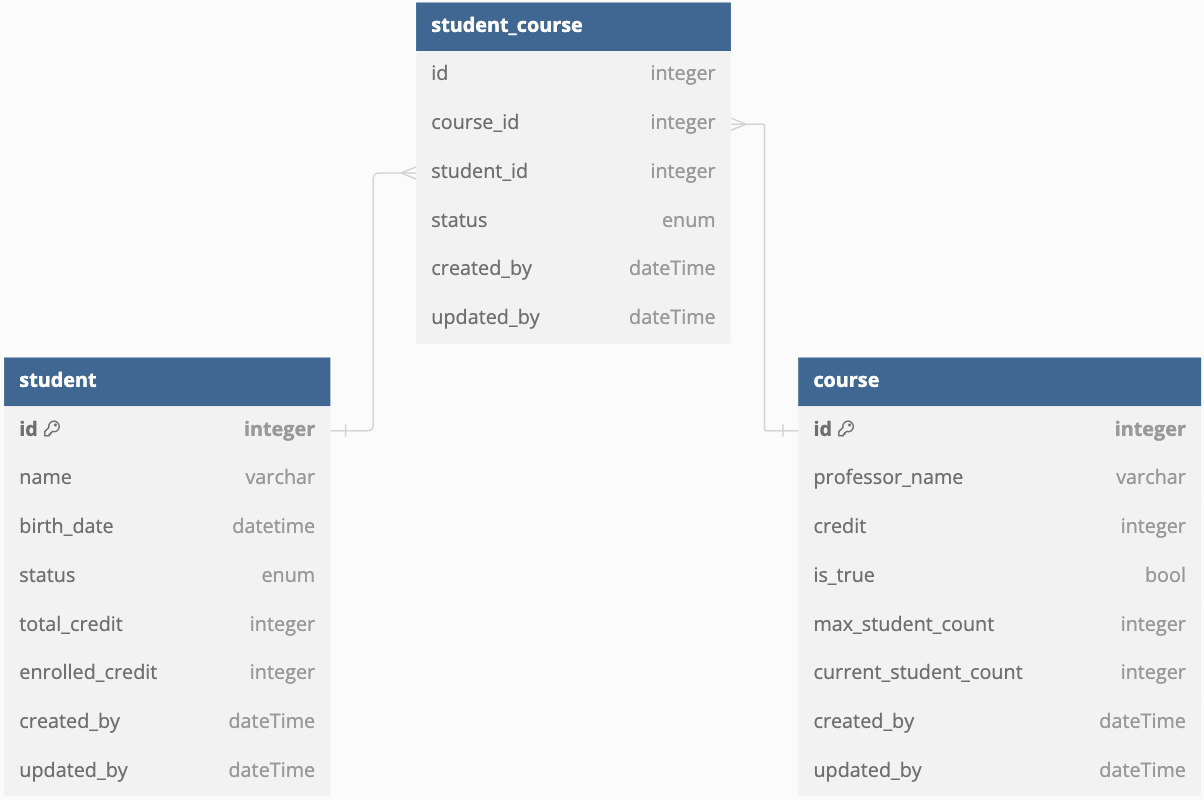
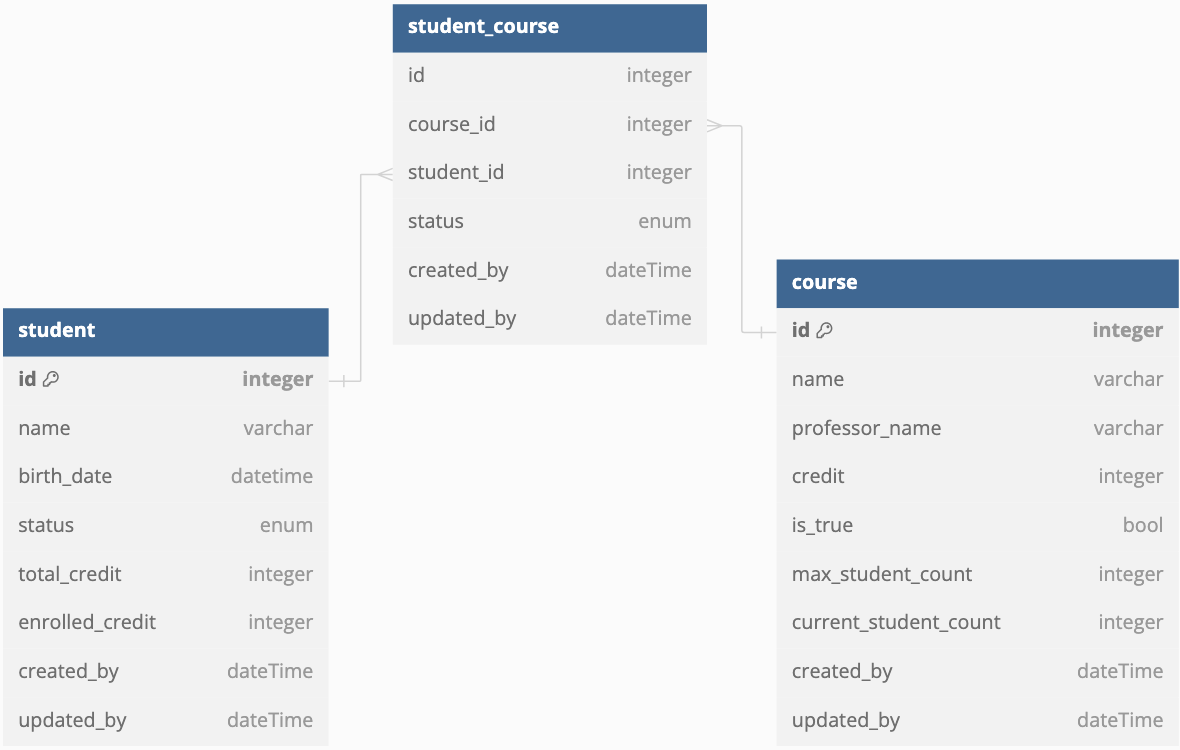
add 4~5일차.md

diff --git a/jeongwpa/4~5일차.md b/jeongwpa/4~5일차.md
@@ -1,0 +1,340 @@
+## 4~5일차
+
+- [4~5일차](#45일차)
+  - [TODO](#todo)
+  - [테스트 코드](#테스트-코드)
+    - [테스트 코드를 작성하는 이유](#테스트-코드를-작성하는-이유)
+    - [테스트 코드의 종류](#테스트-코드의-종류)
+    - [좋은 테스트 코드를 작성하는 방법](#좋은-테스트-코드를-작성하는-방법)
+  - [JUnit5](#junit5)
+  - [개발방법론](#개발방법론)
+    - [TDD(Test Driven Development)](#tddtest-driven-development)
+    - [BDD(Behavior Driven Development)](#bddbehavior-driven-development)
+    - [DDD(Domain Driven Development)](#ddddomain-driven-development)
+    - [ATDD(Acceptance Test Driven Development)](#atddacceptance-test-driven-development)
+  - [API 명세서](#api-명세서)
+
+### TODO
+
+- [x] Junit5
+- [ ] 개발방법론(TDD, BDD, DDD, ATDD)
+- [ ] 코드 컨벤션 숙지하기 [[참고]](https://www.notion.so/c0425406535c47df89714df16b585f19?pvs=4)
+- [ ] API 명세서 작성
+- [ ] API 명세서는 사진(`.jpg` 혹은 `.png`)으로 제출
+
+### 테스트 코드
+
+> [Inflab Tech - 테스트 코드를 왜 그리고 어떻게 작성해야 할까?](https://tech.inflab.com/20230404-test-code/)  
+> [Kakao Tech - 테스트 코드 한 줄을 작성하기까지의 고난](https://tech.kakao.com/posts/479)
+
+테스트 코드는 소프트웨어의 품질을 높이기 위해 작성하는 코드입니다.
+
+#### 테스트 코드를 작성하는 이유
+
+테스트 코드를 작성하는 이유는 코드의 안정성을 높이기 위한 것이 가장 큰 이유이며,
+리렉터링 시에도 코드의 안정성을 보장하기 위해 사용됩니다.
+또한 디버깅을 쉽게 하거나 문서화를 위한 목적으로도 사용됩니다.
+
+#### 테스트 코드의 종류
+
+![test-pyramid.jpg](images%2Ftest-pyramid.jpg)
+
+* 단위 테스트: 도메인 모델과 비즈니스 로직을 테스트, 작은 단위의 코드 및 알고리즘 테스트
+* 통합 테스트: 코드의 주요 흐름들을 통합적으로 테스트하며 주요 외부 의존성(ex. 데이터베이스)에 대해서 테스트
+* E2E 테스트: 최종 사용자의 흐름에 대한 테스트이며 외부로부터의 요청부터 응답까지 기능이 잘 동작하는지에 대한 테스트
+
+#### 좋은 테스트 코드를 작성하는 방법
+
+* 테스트 코드는 DRY 보다는 DAMP 하게 작성한다.
+* 테스트는 구현이 아닌 결과를 검증한다.
+* 읽기 좋은 테스트를 작성한다.
+* 테스트 명세에 비즈니스 행위를 담는다.
+
+> 자세한 내용은 [Inflab Tech - 테스트 코드를 왜 그리고 어떻게 작성해야 할까?](https://tech.inflab.com/20230404-test-code/)를 참고하세요.
+
+### JUnit5
+
+> [Junit5 - User Guide](https://junit.org/junit5/docs/current/user-guide/)  
+> [Junit5 - org.junit.jupiter.api](https://junit.org/junit5/docs/5.10.2/api/org.junit.jupiter.api/org/junit/jupiter/api/package-summary.html)  
+> [SW Test Academy - JUnit 5 Architecture](https://www.swtestacademy.com/junit-5-architecture/)
+
+JUnit은 Java에서 테스트를 위한 프레임워크입니다.
+
+![junit5_architecture.png](images%2Fjunit5_architecture.png)
+
+JUnit5는 `JUnit Platform`, `JUnit Jupiter`, `JUnit Vintage` 세 가지 모듈로 구성되어 있습니다.
+
+* `JUnit Platform` : JUnit5를 실행하는 런처와 테스트 엔진을 제공
+* `JUnit Jupiter` : 테스트 작성을 위한 새로운 프로그래밍 모델과 확장 모델을 제공
+* `JUnit Vintage` : JUnit3, JUnit4를 실행할 수 있도록 호화성 지원
+
+```groovy
+dependencies {
+    testImplementation 'org.junit.jupiter:junit-jupiter-api:5.10.2'
+    testRuntimeOnly 'org.junit.jupiter:junit-jupiter-engine:5.10.2'
+    testRuntimeOnly 'org.junit.vintage:junit-vintage-engine:5.10.2'
+}
+```
+
+JUnit5에서는 org.junit.jupiter.api 패키지의 어노테이션을 사용하여 테스트를 작성합니다.
+다음은 기본적으로 사용되는 JUnit5 어노테이션입니다.
+
+|        어노테이션         | 설명                                       |
+|:--------------------:|:-----------------------------------------|
+|       `@Test`        | 테스트 메소드를 정의하는 어노테이션                      |
+|    `@BeforeEach`     | 각 테스트 메소드가 실행되기 전에 실행되는 메소드를 정의하는 어노테이션  |
+|     `@AfterEach`     | 각 테스트 메소드가 실행된 후에 실행되는 메소드를 정의하는 어노테이션   |
+|     `@BeforeAll`     | 모든 테스트 메소드가 실행되기 전에 실행되는 메소드를 정의하는 어노테이션 |
+|     `@AfterAll`      | 모든 테스트 메소드가 실행된 후에 실행되는 메소드를 정의하는 어노테이션  |
+|    `@DisplayName`    | 테스트 메소드의 이름을 정의하는 어노테이션                  |
+|     `@Disabled`      | 테스트 메소드를 비활성화하는 어노테이션                    |
+| `@ParameterizedTest` | 테스트 메소드에 파라미터를 전달하는 어노테이션                |
+|      `@Nested`       | 중첩된 테스트 클래스를 정의하는 어노테이션                  |
+
+다음은 Junit5에서 테스트를 작성하는 예시입니다.
+
+```java
+import org.junit.jupiter.api.DisplayName;
+
+import static org.junit.jupiter.api.Assertions.assertEquals;
+
+public class Test {
+
+    @Nested
+    @DisplayName("나눗셈 테스트")
+    class CalculatorTest {
+
+        @DisplayName("나눗셈을 하면 몫을 반환한다.")
+        @Test
+        void divideTest() {
+            Calculator calculator = new Calculator();
+            assertEquals(2, calculator.divide(4, 2));
+        }
+
+        @DisplayName("0으로 나누면 예외를 발생시킨다.")
+        @Test
+        void divideByZeroTest() {
+            Calculator calculator = new Calculator();
+            assertThrows(ArithmeticException.class, () -> calculator.divide(4, 0));
+        }
+    }
+}
+```
+
+### 개발방법론
+
+#### TDD(Test Driven Development)
+
+> [Kakaopay Tech - 실전에서 TDD하기](https://tech.kakaopay.com/post/implementing-tdd-in-practical-applications/)  
+> [패스트캠퍼스 - TDD란? 테스트주도개발에 대한 편견과 실상, 방법론](https://media.fastcampus.co.kr/knowledge/dev/tdd/)  
+> [DATA ON-AIR - 닷넷 TDD 프로그래밍 : TDD의 소개](https://dataonair.or.kr/db-tech-reference/d-lounge/technical-data/?mod=document&uid=236022)
+
+TDD(Test Driven Development)는 테스트 주도 개발로,
+테스트 케이스를 먼저 작성하고 그 테스트 케이스를 통과하는 코드를 작성하는 개발 방법론입니다.
+
+![tdd_rgb.png](images%2Ftdd_rgb.png)
+_출처 : 패스트 캠퍼스 The Red_
+
+TDD는 크게 3가지 단계를 반복합니다.
+
+1. Red: 실패하는 테스트를 작성
+2. Green: 테스트를 통과하는 코드를 작성
+3. Refactor: 중복 코드를 제거하고 리팩토링
+
+TDD를 통해 개발하면 코드의 품질을 높이고 코드의 유지보수성을 높일 수 있지만
+초기 투자 비용이 높고 테스트 코드 작성에 시간이 많이 소요된다는 단점이 있습니다.
+또한 TDD를 적용한다고 해서 모든 버그를 100% 해결할 수 있는 것은 아닙니다.
+
+상황에 따라 오히려 전통적인 방식의 폭포수 모델이 더 효율적일 수도 있습니다.
+
+#### BDD(Behavior Driven Development)
+
+> [Test Management - BDD](https://www.testmanagement.com/solutions/bdd-with-testcomplete-and-hiptest/)  
+> [Martin Fowler - Given When Then](https://martinfowler.com/bliki/GivenWhenThen.html)
+
+BDD(Behavior Driven Development)는 BDD는 TDD에서 파생된 개발 방법론으로,
+TDD에서 기능 중심으로 테스트 케이스를 작성하는 것과 달리 테스트 케이스의 행위를 중심으로 작성하는 개발 방법론입니다.
+
+![bdd_rgb.webp](images%2Fbdd_rgb.webp)
+
+BDD는 TDD와 동일한 단계를 반복하지만
+비즈니스 요구사항이나 기능 요구사항을 분석하여
+사용자의 행동을 중심으로 한 시나리오 작성이 추가됩니다.
+
+BDD는 사용자의 행위를 중심으로 테스트 케이스를 작성하기 때문에
+개발자와 비개발자 간의 의사소통을 원활하게 할 수 있다는 장점이 있습니다.
+
+1. 행위 기반 시나리오 작성 (Given, When, Then)
+2. TDD
+    1. Red: 실패하는 테스트를 작성
+    2. Green: 테스트를 통과하는 코드를 작성
+    3. Refactor: 중복 코드를 제거하고 리팩토링
+4. 테스트 리팩토링
+
+![bdd_struct.png](images%2Fbdd_struct.png)
+
+각 시나리오는 다음과 같은 구조로 작성됩니다.
+
+* Feature : 기능 (어떤 기능을 테스트 할 것인가?)
+* Scenario : 시나리오 (무엇을 테스트할 것인가?)
+* Given : 시나리오 진행을 위한 사전 조건 (변수, 입력값, mock 등)
+* When : 실제 행위
+* Then : 예상되는 결과 및 결과값 검증
+
+> AAA(Arrange, Act, Assert) 패턴도 사용될 수 있습니다.
+
+다음은 BDD에서 사용되는 시나리오 예시입니다.
+
+```gherkin
+Feature: 계산기
+  계산기를 사용하여 덧셈을 할 수 있다.
+
+  Scenario: 나눗셈
+    Given 계산기가 준비되어 있다.
+    When 4를 2로 나눈다.
+    Then 결과는 2이다.
+
+  Scenario: 0으로 나누기
+    Given 계산기가 준비되어 있다.
+    When 4를 0으로 나눈다.
+    Then 예외가 발생한다.
+```
+
+다음은 BDD에서 사용되는 테스트 코드 예시입니다.
+
+```java
+import org.junit.jupiter.api.DisplayName;
+
+import static org.junit.jupiter.api.Assertions.assertEquals;
+
+public class Test {
+
+    @Nested
+    @DisplayName("계산기 테스트")
+    class CalculatorTest {
+
+        @DisplayName("나눗셈을 하면 몫을 반환한다.")
+        @Test
+        void divideTest() {
+            // Given : 계산기가 준비되어 있다.
+            Calculator calculator = new Calculator();
+
+            // When : 4를 2로 나눈다.
+            int result = calculator.divide(4, 2);
+
+            // Then : 결과는 2이다.
+            assertEquals(2, result);
+        }
+
+        @DisplayName("0으로 나누면 예외를 발생시킨다.")
+        @Test
+        void divideByZeroTest() {
+            // Given : 계산기가 준비되어 있다.
+            Calculator calculator = new Calculator();
+
+            // When : 4를 0으로 나누면,
+            // Then : 예외가 발생한다.
+            assertThrows(ArithmeticException.class, () -> calculator.divide(4, 0));
+        }
+    }
+}
+```
+
+#### DDD(Domain Driven Development)
+
+> [F-lab - DDD(Domain-Driven Design)의 이해와 실무 적용](https://f-lab.kr/insight/understanding-and-applying-ddd)  
+> [SK C&C - 도메인 주도 설계에서의 전략적 설계](https://engineering-skcc.github.io/msa/DDD-StrategicDesign/#%EB%A7%88%EC%9D%B4%ED%81%AC%EB%A1%9C%EC%84%9C%EB%B9%84%EC%8A%A4-%EB%B3%84-%EC%A0%84%EC%88%A0%EC%A0%81-%EC%84%A4%EA%B3%84-%EB%B0%A9%ED%96%A5-%EA%B2%B0%EC%A0%95)  
+> [Kakao Tech - 추천팀의 DDD 도입기](https://tech.kakao.com/posts/555)  
+> [if(kakao)2022 - ㄷㄷㄷ: Domain Driven Design과 적용 사례공유](https://www.youtube.com/watch?v=4QHvTeeTsj0)  
+> [NHN FORWARD 22 - DDD 뭣이 중헌디? 🧐](https://www.youtube.com/watch?v=6w7SQ_1aJ0A)  
+
+DDD(Domain Driven Development)는 도메인 주도 개발로,
+기능적인 문제의 영역을 정의하는 도메인과
+그 도메인을 사용하는 비즈니스 로직을 중심으로 설계하는 개발 방법론입니다.
+
+DDD는 데이터가 아닌 도메인에 집중하고,
+엔티티와 도메인 개념을 일치시켜 개발자와 비개발자 간의 의사소통을 원활하게 합니다.
+
+DDD는 크게 전략적 설계와 전술적 설계로 나뉩니다.
+전략적 설계는 도메인을 구분하고 경계를 설정하는 단계이며,
+전술적 설계는 도메인의 구체적인 구현을 설계하는 단계입니다.
+
+DDD **전략적 설계**에서 사용되는 3가지 개념은 다음과 같습니다.
+
+* Bounded Context : 범위를 구분하는 하위 도메인   
+  ![ddd_BoundedContext.png](images%2Fddd_BoundedContext.png)
+* Context Map : Bounded Context 간의 관계를 시각화   
+  ![ddd_ContextMap.png](images%2Fddd_ContextMap.png)
+* Aggregate : 관련된 객체를 묶은 하나의 단위 혹은 라이프사이클  
+  ![ddd_Aggregate.png](images%2Fddd_Aggregate.png)
+
+위 개념을 가지고 다음과 같은 순서로 DDD를 적용할 수 있습니다.
+1. 도메인, 서브도메인 정의
+2. Bounded Context 정의
+3. 유비쿼터스 언어 정의 (도메인 전문가와의 의사소통을 위한 언어 통일)
+4. Context Map 작성
+5. Aggregate 작성
+
+DDD는 **전술적 설계**에서 사용되는 3가지 패턴은 다음과 같습니다.
+
+* Layered Architecture  
+  ![ddd_layer.webp](images%2Fddd_layer.webp)
+* Clean Architecture  
+  ![ddd_clean.jpeg](images%2Fddd_clean.jpeg)
+* Hexagonal Architecture  
+  ![ddd_hexa.png](images%2Fddd_hexa.png)
+
+전술적 설계에서는 상황에 따라 적절한 패턴을 선택하여 사용할 수 있습니다.
+
+#### ATDD(Acceptance Test Driven Development)
+
+> [우아한테크 - 지속 가능한 인수 테스트 주도 개발](https://www.youtube.com/watch?v=birVFRb2d-E)  
+> [우아한테크 - [3월 우아한테크세미나] 우아한ATDD](https://www.youtube.com/watch?v=ITVpmjM4mUE)
+
+ATDD(Acceptance Test Driven Development)는 인수 테스트 주도 개발로,
+인수 테스트를 먼저 작성하고 그 테스트를 통과하는 코드를 작성하는 개발 방법론입니다.
+
+인수 테스트란 사용자의 요구사항을 검증하는 테스트로,
+사용자의 스토리를 기반으로 시나리오를 작성하고 그 시나리오를 통과하는 코드를 작성하는 방법론입니다.
+
+![atdd_cycle.webp](images%2Fatdd_cycle.webp)
+
+ATDD는 테스트를 위한 시나리오를 작성하고, GWT(Given, When, Then) 패턴을 사용한다는 점에서
+BDD와 유사한 개념이지만 BDD는 행위 중심으로 시나리오를 작성하는 반면
+ATDD는 사용자 스토리 기반으로 테스트를 작성한다는 차이가 있습니다.
+
+즉, BDD는 개발자와 비개발자 간의 의사소통을 원활하게 하기 위한 개발 방법론이고,
+ATDD는 개발자 관점에서 사용자의 요구사항을 검증하기 위한 개발 방법론입니다.
+
+다음은 ATDD에서 사용되는 시나리오 예시입니다.
+
+```gherkin
+Feature: 최단 경로 구하기
+
+  Scenario: 출발지와 도착지가 주어지면 최단 경로를 구한다.
+    Given 출발지와 도착지가 주어진다.
+    And 출발지와 도착지가 연결되어 있다.
+    When 사용자는 출발지와 도착지를 최단 경로를 조회한다.
+    Then 사용자는 최단 경로를 응답받는다.
+```
+
+### API 명세서
+
+![3일차_ERD.png](images%2F3%EC%9D%BC%EC%B0%A8_ERD.png)
+
+| Method  | URI                              | Description | success       | 
+|:-------:|:---------------------------------|:------------|:--------------|
+| `POST`  | `/students`                      | 학생 등록       | `201 Created` |
+|  `GET`  | `/students/graduated`            | 졸업생 목록      | `200 OK`      |
+|  `GET`  | `/students/{student_id}`         | 학생 정보       | `200 OK`      |
+|  `GET`  | `/students/{student_id}/current` | 재학생 목록      | `200 OK`      |
+| `PATCH` | `/students/{student_id}/drop`    | 학생 휴학       | `200 OK`      |
+|  `GET`  | `/students/{student_id}/finish`  | 학생 졸업       | `200 OK`      |
+|  `GET`  | `/sugang`                        | 수강 목록       | `200 OK`      |
+| `POST`  | `/sugang/{course_id}`            | 수강 신청       | `201 Created` |
+| `PATCH` | `/sugang/{course_id}`            | 수강 변경       | `200 OK`      |
+|  `GET`  | `/sugang/{student_id}/history`   | 수강 이력       | `200 OK`      |
+| `POST`  | `/courses`                       | 강의 등록       | `201 Created` |
+| `PATCH` | `/courses/{course_id}`           | 강의 변경       | `200 OK`      |
+| `PATCH` | `/courses/{course_id}/delete`    | 강의 삭제       | `200 OK`      |
+| `PATCH` | `/courses/{course_id}/finish`    | 강의 종료       | `200 OK`      |

diff --git a/jeongwpa/3일차.md b/jeongwpa/3일차.md
@@ -379,6 +379,7 @@ erDiagram
 
     COURSE {
         int id
+        string name
         string professor_name
         int credit
         bool is_true
@@ -398,7 +399,7 @@ erDiagram
     }
 ```
 
-```sql
+```sqlite
 Table student {
   id integer [primary key]
   name varchar
@@ -412,6 +413,7 @@ Table student {
 
 Table course {
   id integer [primary key]
+  name varchar
   professor_name varchar
   credit integer
   is_true bool
